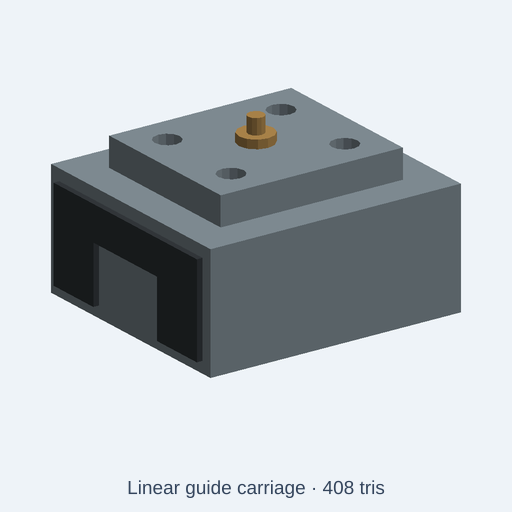
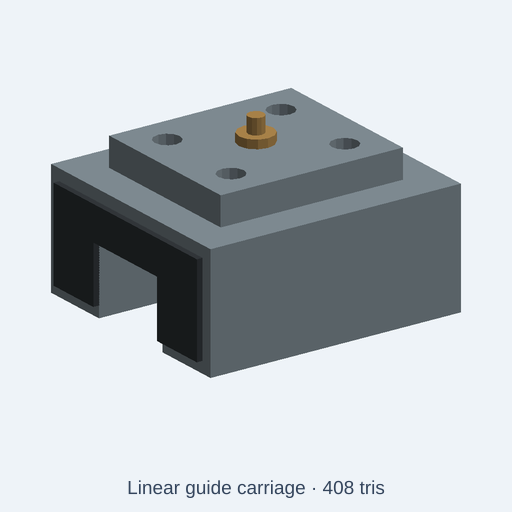
fix(catalog): open carriage rail channel through both ends

Changed region(s): [[0.1875, 0.4688, 0.3438, 0.6875]]

diff --git a/tests/integration/catalog/linearGuideCarriageFidelity.test.ts b/tests/integration/catalog/linearGuideCarriageFidelity.test.ts
@@ -1,0 +1,116 @@
+// SPDX-License-Identifier: MIT
+// A plausible end wiper is not evidence of an open rail channel.
+// Measure the native low-poly export, including the original-source negative.
+import { beforeAll, describe, expect, it } from 'vitest';
+import { readFileSync } from 'node:fs';
+import { resolve } from 'node:path';
+import { NodeIO } from '@gltf-transform/core';
+import { initOcct } from '../../../src/kernel/backends/occt/occtBackend';
+import { buildCatalogAssetWithGlb } from '../../../src/agent/catalog/buildCatalog';
+import { runAndExport } from '../../../src/agent/script-runtime/export';
+
+type V = [number, number, number];
+type Tri = [V, V, V];
+const root = resolve(import.meta.dirname, '../../..');
+const sourcePath = 'catalog/kits/standard-components/linear-guide-carriage.kcad.ts';
+const sub = (a: V, b: V): V => [a[0]-b[0], a[1]-b[1], a[2]-b[2]];
+const dot = (a: V, b: V) => a[0]*b[0]+a[1]*b[1]+a[2]*b[2];
+const cross = (a: V, b: V): V => [a[1]*b[2]-a[2]*b[1], a[2]*b[0]-a[0]*b[2], a[0]*b[1]-a[1]*b[0]];
+function rayHits(tris: Tri[], start: V, direction: V): boolean {
+  return tris.some(tri => {
+    const edge1=sub(tri[1],tri[0]), edge2=sub(tri[2],tri[0]);
+    const p=cross(direction,edge2), determinant=dot(edge1,p);
+    if(Math.abs(determinant)<1e-9)return false;
+    const t=sub(start,tri[0]), u=dot(t,p)/determinant, q=cross(t,edge1);
+    const v=dot(direction,q)/determinant, distance=dot(edge2,q)/determinant;
+    return u>=-1e-7&&v>=-1e-7&&u+v<=1+1e-7&&distance>1e-6&&distance<200;
+  });
+}
+async function readMeshes(glb: Uint8Array, scale: number): Promise<Map<string,Tri[]>> {
+  // Low-poly positions are authored millimetres before scene-axis conversion.
+  const doc=await new NodeIO().readBinary(glb), parts=new Map<string,Tri[]>();
+  for(const node of doc.getRoot().listNodes()) {
+    const mesh=node.getMesh(); if(!mesh)continue;
+    const tris:Tri[]=[];
+    for(const primitive of mesh.listPrimitives()) {
+      const pos=primitive.getAttribute('POSITION')!, indices=primitive.getIndices();
+      const count=indices?indices.getCount():pos.getCount();
+      for(let i=0;i<count;i+=3)tris.push([0,1,2].map(k=>
+        pos.getElement(indices?indices.getScalar(i+k):i+k,[]).map(v=>v/scale) as V
+      ) as Tri);
+    }
+    parts.set(node.getName(),tris);
+  }
+  return parts;
+}
+function components(tris: Tri[]): number {
+  const parent=new Map<string,string>();
+  const find=(key:string):string=>{const p=parent.get(key)!;if(p===key)return key;const r=find(p);parent.set(key,r);return r;};
+  for(const tri of tris) {
+    const keys=tri.map(v=>v.map(x=>x.toFixed(4)).join(','));
+    for(const key of keys)if(!parent.has(key))parent.set(key,key);
+    for(const key of keys.slice(1))parent.set(find(key),find(keys[0]));
+  }
+  return new Set([...parent.keys()].map(find)).size;
+}
+function verify(parts: Map<string,Tri[]>): void {
+  const all = [...parts.values()].flat();
+  // Check the entire travel direction, not just a cavity at the middle.
+  for (const y of [-6, 0, 6]) for (const z of [1, 6, 11]) {
+    expect(rayHits(all, [-35,y,z], [1,0,0]), `rail passage +X at Y=${y},Z=${z}`).toBe(false);
+    expect(rayHits(all, [35,y,z], [-1,0,0]), `rail passage -X at Y=${y},Z=${z}`).toBe(false);
+  }
+  const body = parts.get('steel-body')!;
+  expect(body).toBeDefined();
+  expect(components(body), 'body remains one connected U-shaped casting').toBe(1);
+  // Positive controls: deleting the entire body must not pass the opening check.
+  for (const y of [-9,9]) expect(rayHits(body,[-35,y,6],[1,0,0]),'sidewalls retained').toBe(true);
+  expect(rayHits(body,[-35,0,13],[1,0,0]),'roof retained').toBe(true);
+  const volume = Math.abs(body.reduce((sum,tri)=>sum+dot(tri[0],cross(tri[1],tri[2]))/6,0));
+  expect(volume, '44x40x20 block minus 44x16x12 through-channel').toBeCloseTo(26752,1);
+  for (const [axis,min,max] of [[0,-22,22],[1,-20,20],[2,0,20]] as const) {
+    expect(Math.min(...body.flat().map(p=>p[axis]))).toBeCloseTo(min,3);
+    expect(Math.max(...body.flat().map(p=>p[axis]))).toBeCloseTo(max,3);
+  }
+  expect(parts.size).toBe(10);
+  expect([...parts.keys()].filter(n=>n.includes('wiper'))).toHaveLength(6);
+  expect(parts.has('mounting-pad')).toBe(true);
+  for (const x of [-10,10]) for (const y of [-8,8]) {
+    expect(rayHits(parts.get('mounting-pad')!,[x,y,30],[0,0,-1]),'four pad wells retained').toBe(false);
+  }
+}
+beforeAll(async()=>{ await initOcct(); },30000);
+describe('illustrative linear-guide carriage rail passage',()=>{
+  for (const [size,scale] of [['standard',1],['compact',0.75],['large',1.25]] as const) {
+    it(`${size}: open end-to-end rail channel with connected body and retained walls`,async()=>{
+      const source=readFileSync(resolve(root,sourcePath),'utf8');
+      const built=await buildCatalogAssetWithGlb(root,sourcePath);
+      const code=source.replace("param('size', 'standard'",`param('size', '${size}'`);
+      const exported=size==='standard'?{bytes:built.glb,diagnostics:[]}:await runAndExport({
+        code,fileName:'linear-guide-carriage.kcad.ts',scriptDir:resolve(root,'catalog/kits/standard-components'),
+        format:'glb',options:{format:'glb',style:'lowpoly',lowpoly:{maxTriangles:built.asset.triangleBudget}},
+      });
+      expect(exported.diagnostics.filter(d=>d.severity==='error')).toEqual([]);
+      verify(await readMeshes(exported.bytes,scale));
+      expect(built.asset.description).toMatch(/illustrative CC0/i);
+      expect(built.asset.description).toMatch(/not manufacturer-grade/i);
+      expect(built.asset.stats.triangles).toBeLessThanOrEqual(built.asset.triangleBudget);
+      expect(built.asset.stats.minUpM).toBeCloseTo(0,6);
+    },60000);
+  }
+  it('negative control: original blind underside pocket blocks both ends',async()=>{
+    const source=readFileSync(resolve(root,sourcePath),'utf8').replace(
+      'block(-23*s, -8*s, -s, 46*s, 16*s, 13*s)',
+      'block(-18*s, -8*s, -s, 36*s, 16*s, 13*s)',
+    );
+    const exported=await runAndExport({code:source,fileName:'original-carriage.kcad.ts',
+      scriptDir:resolve(root,'catalog/kits/standard-components'),format:'glb',
+      options:{format:'glb',style:'lowpoly',lowpoly:{maxTriangles:460}},
+    });
+    expect(exported.diagnostics.filter(d=>d.severity==='error')).toEqual([]);
+    const parts=await readMeshes(exported.bytes,1),all=[...parts.values()].flat();
+    expect(rayHits(all,[-35,0,6],[1,0,0])).toBe(true);
+    expect(rayHits(all,[35,0,6],[-1,0,0])).toBe(true);
+    expect(()=>verify(parts)).toThrow();
+  },60000);
+});

diff --git a/catalog/kits/standard-components/linear-guide-carriage.kcad.ts b/catalog/kits/standard-components/linear-guide-carriage.kcad.ts
@@ -3,7 +3,7 @@ meta({
   name: 'linear-guide-carriage',
   license: 'CC0-1.0',
   title: 'Linear guide carriage',
-  description: 'Steel guide carriage with a U-shaped underside channel, polymer end wipers, four top fastener wells, and a brass grease fitting. Knobs: model size, steel, polymer, brass.',
+  description: 'Illustrative CC0 guide-carriage prop with an open end-to-end underside rail channel, separate polymer end wipers, four top fastener wells, and a brass grease fitting. Not manufacturer-grade CAD: no recirculating balls, vendor raceways, tolerances or load rating. Knobs change model size and colors only.',
   tags: ['linear guide carriage', 'rail carriage', 'motion block', 'machine'],
   kit: 'standard-components',
   category: 'attachment',
@@ -25,8 +25,9 @@ presets({
 const s = size.value === 'compact' ? 0.75 : size.value === 'large' ? 1.25 : 1;
 const block = (x: number, y: number, z: number, w: number, d: number, h: number) => box(w, d, h).translate(x, y, z);
 const a = assembly('linear-guide-carriage');
+// Cut beyond both travel-axis faces; a blind underside pocket blocks the rail.
 const shoe = block(-22*s, -20*s, 0, 44*s, 40*s, 20*s)
-  .subtract(block(-18*s, -8*s, -s, 36*s, 16*s, 13*s));
+  .subtract(block(-23*s, -8*s, -s, 46*s, 16*s, 13*s));
 a.part('steel-body', shoe.color(steel));
 
 let topPad = block(-16*s, -14*s, 20*s, 32*s, 28*s, 5*s);

diff --git a/docs/quality/linear-guide-carriage-2026-11-12.md b/docs/quality/linear-guide-carriage-2026-11-12.md
@@ -1,0 +1,39 @@
+# Linear-guide carriage: open rail channel
+
+12 November 2026. This change repairs a CC0 illustrative scene prop. It does not certify a commercial carriage, ball circulation, vendor raceways, tolerances, stiffness or load capacity.
+
+## Defect and focused change
+The original 44 x 40 x 20 mm steel body has a 36 mm-long blind underside pocket. Four-millimetre walls at both ends block a rail. The new subtraction runs from X=-23 to +23 mm, beyond the body ends, retaining the nominal 16 x 12 mm channel. No colors, presets or external dimensions change. The separate wipers, mounting pad and grease fitting remain.
+
+![Native before/after: iso, end and underside](evidence/linear-guide-carriage-20261112/before-after.png)
+
+The top row is the original source. The bottom row is the repair. These are native OCCT-to-GLB software renders, not a browser/WebGL acceptance result. Both meshes have 408 triangles, below the unchanged 460-triangle limit. The six-second [comparison clip](evidence/linear-guide-carriage-20261112/native-comparison.mp4) shows the generated end views; it is not a motion simulation.
+
+## Geometry acceptance
+`tests/integration/catalog/linearGuideCarriageFidelity.test.ts` checks all three size choices (0.75, 1.0, 1.25 scale):
+
+- Nine interior rays in each travel direction clear the entire assembly.
+- Positive wall/roof controls and connected-component count prevent a deleted-body false pass.
+- Steel-body bounds remain 44 x 40 x 20 mm at nominal scale; volume is 26,752 mm³, including the through-channel cut.
+- Ten named mesh parts, six wiper members and the four mounting-pad wells remain.
+- The original blind pocket is a failing negative control.
+
+Original: 3 positive geometry cases fail; the negative-control case passes. Repair: 4/4 cases pass. Asset-module integration: 4/4 pass. Targeted ESLint passes. All 2,402 bundled source hashes match the committed index. Live marketing separately lists 2,418 assets because it also publishes manufacturing showcase assets.
+
+Commands (Node 24.22.2, reused dependency tree, one worker, 2 GiB heap):
+
+```sh
+NODE_OPTIONS=--max-old-space-size=2048 node node_modules/vitest/vitest.mjs run \
+  tests/integration/catalog/linearGuideCarriageFidelity.test.ts \
+  --maxWorkers=1 --no-file-parallelism
+NODE_OPTIONS=--max-old-space-size=2048 node node_modules/vitest/vitest.mjs run \
+  tests/integration/catalog/assetModule.test.ts --maxWorkers=1 --no-file-parallelism
+node node_modules/eslint/bin/eslint.js \
+  tests/integration/catalog/linearGuideCarriageFidelity.test.ts \
+  catalog/kits/standard-components/linear-guide-carriage.kcad.ts
+```
+
+The local full native index rebuild was interrupted at the command time limit and is NOT counted as passed. The exact-head `catalog-index` CI job remains a merge gate. These focused results are not a full clean packaged-runtime test. No product regression is claimed repaired by this asset change.
+
+## Release acceptance
+Require the exact-head repository gates before normal merge. After the marketing deployment completes, compare the actual source and canonical PNG against this reviewed commit and inspect the live per-part page. A merged PR, accepted workflow dispatch or passing source test alone does not prove production publication.
